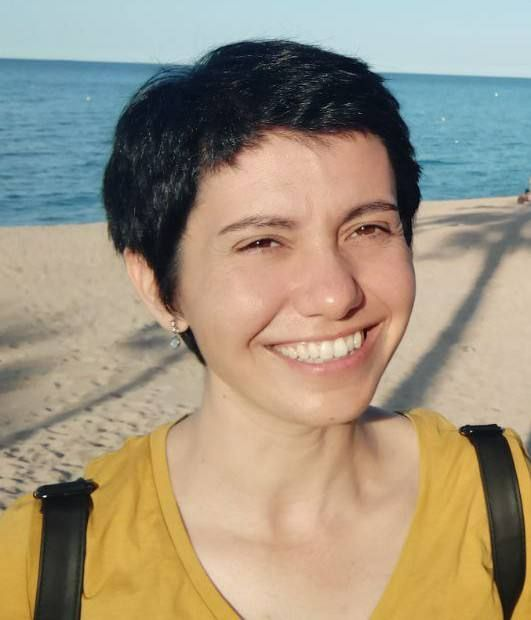
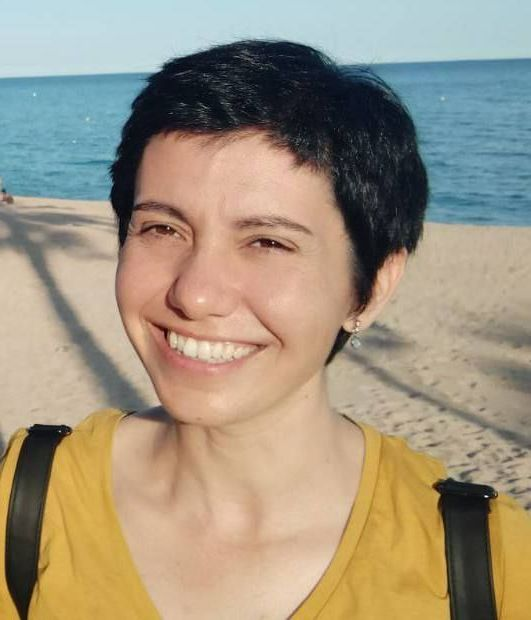
feat: new personal image

diff --git a/index.html b/index.html
@@ -52,7 +52,7 @@
             <span class="arrow icon solid fa-chevron-right">
               <span>Consulta els meus serveis</span>
             </span>
-            <img src="images/me.jpg" alt="" />
+            <img src="images/me2.jpg" alt="" />
           </a>
         </article>
 
@@ -118,11 +118,11 @@
       </div>
 
       <!-- Footer -->
-      <div id="footer">
+      <!-- <div id="footer">
         <ul class="copyright">
           <li>Design: <a href="http://html5up.net">HTML5 UP</a></li>
         </ul>
-      </div>
+      </div> -->
     </div>
 
     <!-- Scripts -->

diff --git a/assets/css/main.css b/assets/css/main.css
@@ -1851,6 +1851,15 @@ ul.contact {
   ul.grid li {
     width: 100%;
   }
+
+  ul.contact li {
+    width: 100%;
+    padding-left: 1rem;
+  }
+
+  ul.contact li:last-child {
+    text-align: left;
+  }
 }
 
 ol {
